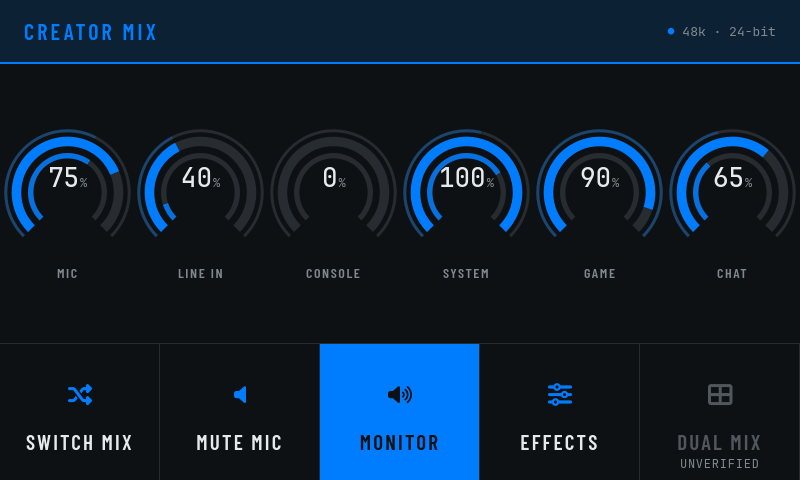
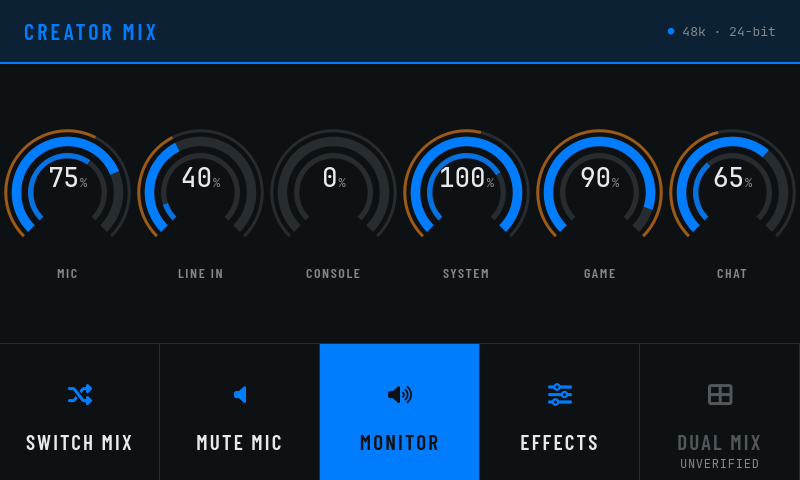
gui: draw the mix you are not editing in its own colour
Each gauge's thin outer arc is the other mix -- that is what the file's own
comment and the README both say it is for, so that both mixes are readable per
track without switching between them. It was drawn in `Qt.alpha(accent, 0.30)`,
the colour of the mix being *edited*, so every arc on the panel carried the same
hue and the outer one said nothing a person could use.

It takes the other mix's colour, from the `Theme.mixColor` the rest of the
interface already goes through, and cross-fades on a switch the way the arc
beside it does.

Rendered both mixes before changing anything, which is how the single hue was
established rather than deduced, and the new case counts pixels of the other
mix's hue on each screen: none before, several hundred after.

diff --git a/src/gui/RingGauge.qml b/src/gui/RingGauge.qml
@@ -8,8 +8,8 @@ import AX310.App
 /// The physical control is a knob inside an LED ring, so a vertical fader would
 /// misrepresent the instrument. Four concentric arcs, outermost first:
 ///
-///   - the **other mix**, thin and dim, so both mixes are readable per track
-///     without switching between them;
+///   - the **other mix**, thin and in that mix's own colour, so both mixes are
+///     readable per track without switching between them;
 ///   - the **active mix**, thick, in that mix's colour;
 ///   - the **live meter**, with a peak-hold tick that decays.
 ///
@@ -37,6 +37,13 @@ Item {
 
     /// The colour of the mix being edited.
     property color accent: Theme.creator
+
+    /// The colour of the mix that is not being edited.
+    ///
+    /// Its own colour rather than a dimmed accent: the outer arc exists so both
+    /// mixes are readable per track, and an arc in the colour of the mix it is
+    /// not showing says nothing a person can use.
+    property color otherAccent: Theme.audience
 
     /// What the deck prints under this knob.
     property string label: ""
@@ -99,7 +106,7 @@ Item {
                 }
             }
             ShapePath {
-                strokeColor: Qt.alpha(gauge.accent, 0.30)
+                strokeColor: Qt.alpha(gauge.otherAccent, 0.55)
                 strokeWidth: 2.5 * gauge._unit
                 fillColor: "transparent"
                 capStyle: ShapePath.FlatCap
@@ -109,6 +116,7 @@ Item {
                     startAngle: gauge.arcStart
                     sweepAngle: gauge.arcSweep * gauge.otherLevel / 100
                 }
+                Behavior on strokeColor { ColorAnimation { duration: Theme.mixTransition } }
             }
 
             // The signal on this track.

diff --git a/src/gui/MixerView.qml b/src/gui/MixerView.qml
@@ -42,6 +42,7 @@ Item {
                 width: mixer.gaugeSize
                 label: modelData
                 accent: mixer.accent
+                otherAccent: Theme.mixColor(mixer.mix === 0 ? 1 : 0)
                 level: mixer.levels[mixer.mix][index]
                 meter: mixer.meters[index]
                 peak: mixer.peaks[index]

diff --git a/src/app/GuiRender_test.cpp b/src/app/GuiRender_test.cpp
@@ -305,6 +305,37 @@ TEST_CASE("the panel is drawn in the colour of the mix being edited", "[gui][ren
     CHECK(audienceOrange > audienceBlue);
 }
 
+TEST_CASE("the mix that is not being edited is drawn in its own colour", "[gui][render][mix]")
+{
+    RenderHarness harness;
+
+    // Every track carries a level in both mixes, so every gauge has an outer arc
+    // to draw. The two sets differ per track, so the arcs cannot coincide.
+    harness.connectWithLevels({ 15, 8, 14, 20, 18, 13 }, { 6, 16, 4, 11, 9, 20 });
+
+    auto const hueOf = [](MixId mix) {
+        auto const& colour = protocol::MixRingColours[indexOf(mix)];
+        return QColor(colour.red, colour.green, colour.blue).hue();
+    };
+
+    // The thin outer arc is the other mix, and drawing it in the *edited* mix's
+    // colour is what made it useless: both arcs then said the same thing and a
+    // person had to switch to read the other mix. So each screen has to carry
+    // both hues, not just the one it is in.
+    auto const creator = harness.renderPanel();
+    auto const creatorOther = pixelsNearHue(creator, hueOf(MixId::Audience));
+    UNSCOPED_INFO("the creator panel carries " << creatorOther << " audience-coloured pixels");
+    CHECK(creatorOther > 100);
+
+    harness.bridge.selectMix(1);
+    RenderHarness::settle();
+
+    auto const audience = harness.renderPanel();
+    auto const audienceOther = pixelsNearHue(audience, hueOf(MixId::Creator));
+    UNSCOPED_INFO("the audience panel carries " << audienceOther << " creator-coloured pixels");
+    CHECK(audienceOther > 100);
+}
+
 TEST_CASE("the interface and the deck's rings agree on the mix colours", "[gui][mix]")
 {
     // Two palettes for one piece of state is how they came to disagree: a mix
